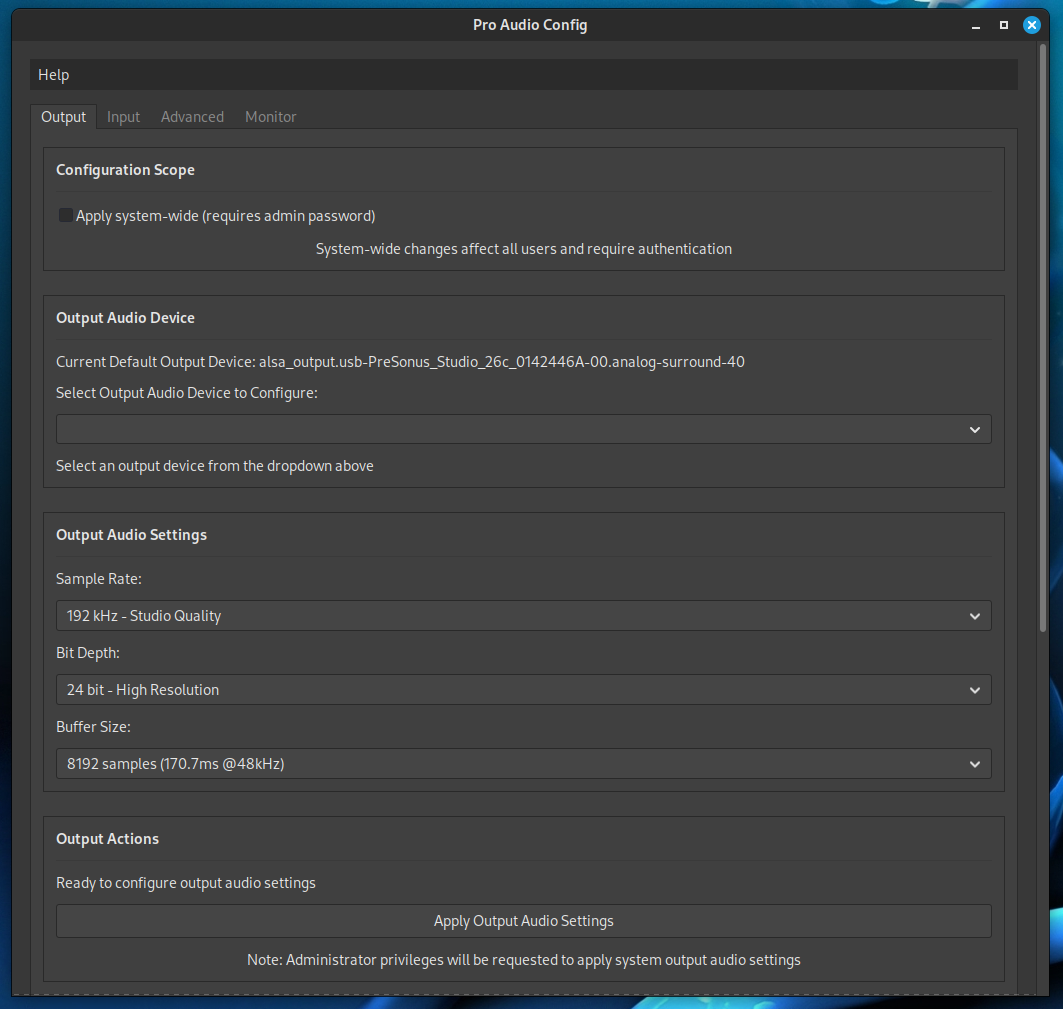
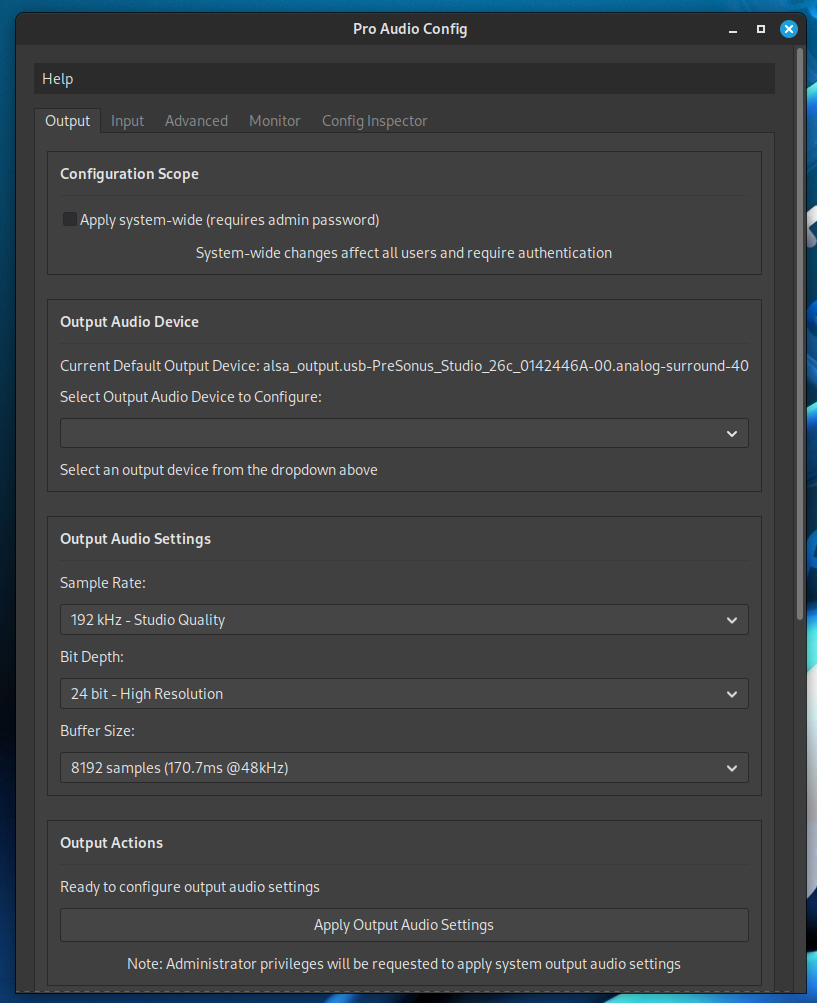
docs(scrshots): Update of screenshots and gallery

diff --git a/scrshots/README.md b/scrshots/README.md
@@ -24,6 +24,9 @@
 ![Running the program](scr10.png)  
 *(Monitoring)*  
 
+![Running the program](scr16.png)  
+*(Config Inspector)*  
+
 ![Running the program in VM Ware](scr11.png)  
 *(Running program in VM Ware on Fedora Jam with KDE Plasma 6.5 "dark breeze" theme)*  
 About Feadora jam - [Fedora Jam](https://www.fedoraproject.org/labs/jam)
